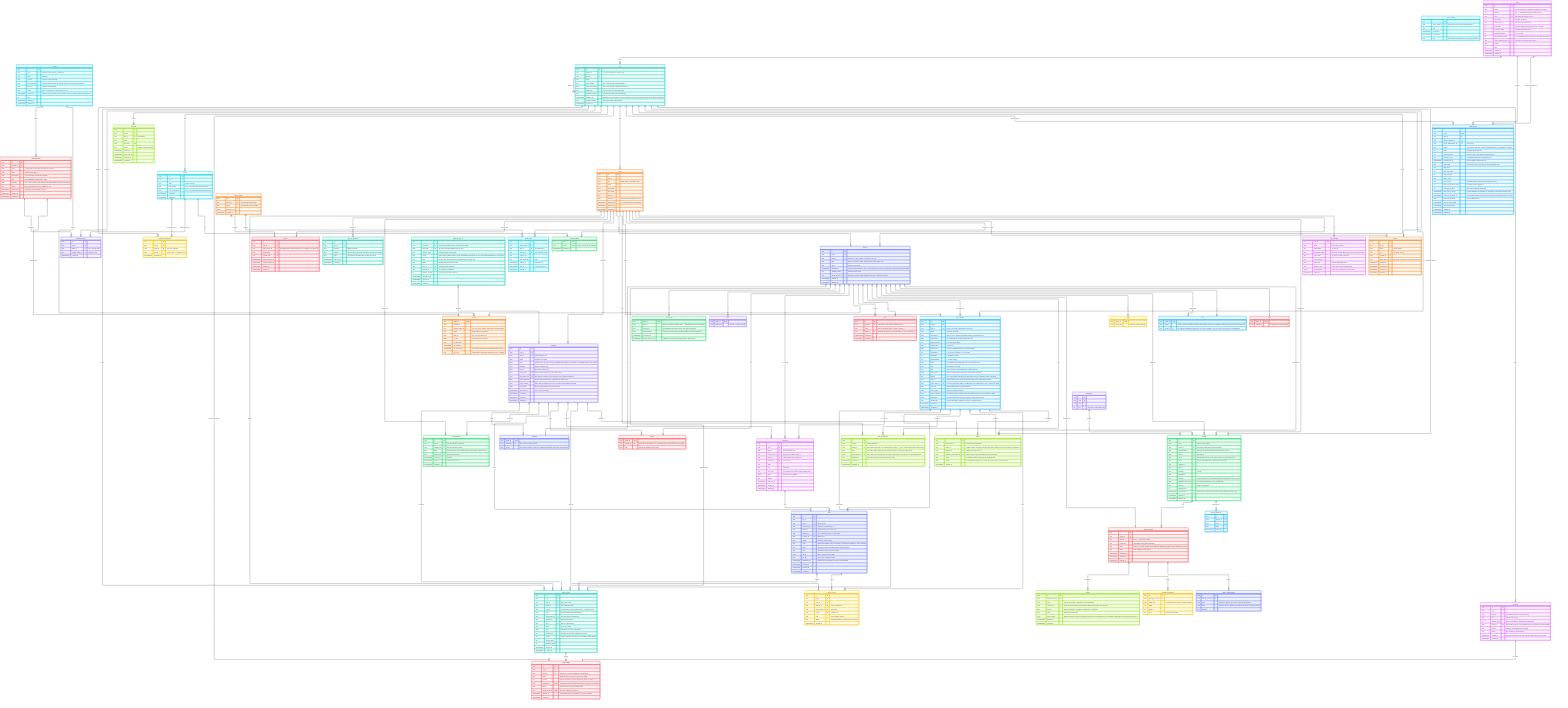
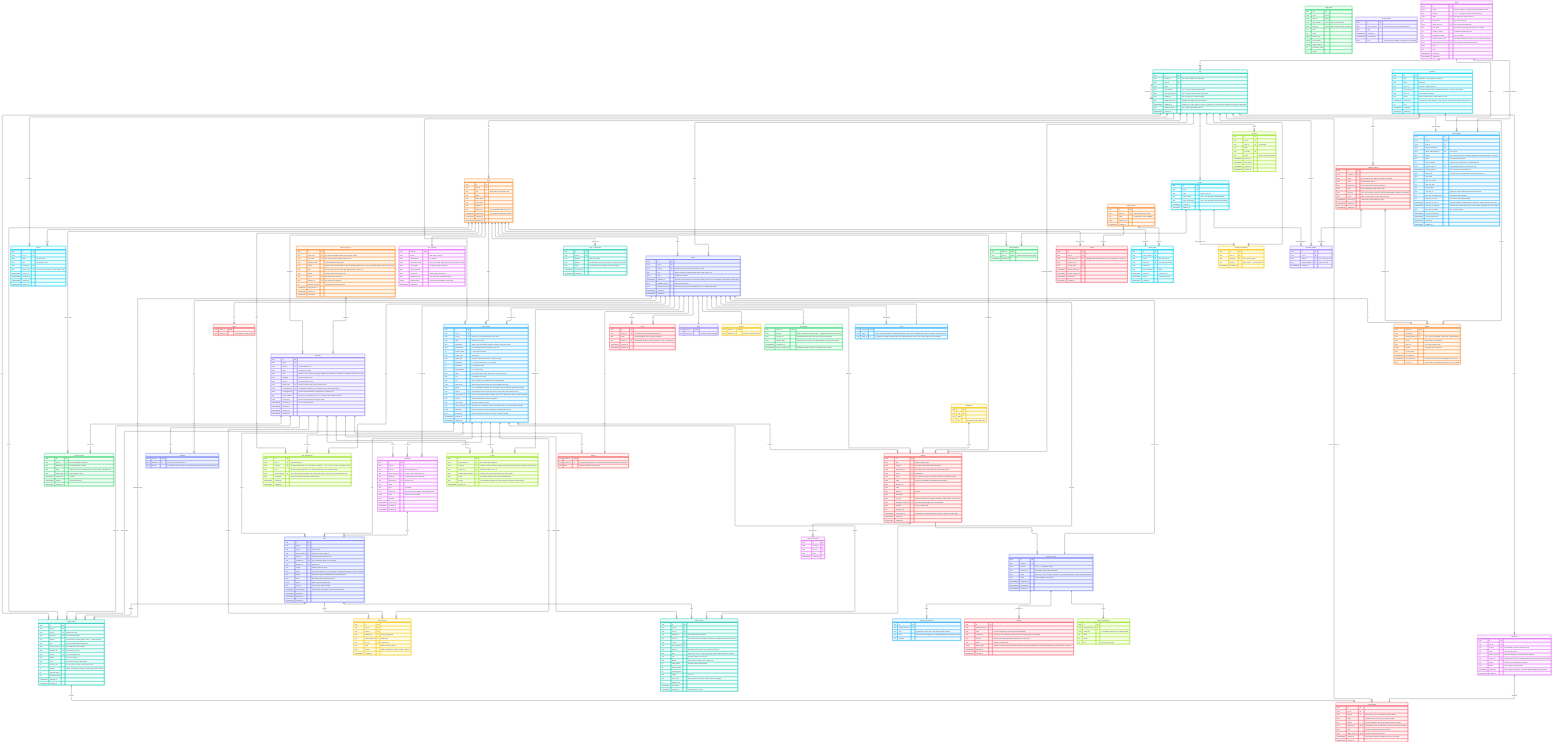
Usage of every power and super power: rrotor reports each use (model calls with the provider's token counts, tool calls, skills, task steps, folders, browsers), counts and times only, never content and never billed; nightly roll-ups per day, org, user, super power and power; listing installs and use

diff --git a/docs/architecture.md b/docs/architecture.md
@@ -382,6 +382,10 @@ erDiagram
     super_powers ||--o{ usage_events : "called from"
     machines ||--o{ usage_events : "called on"
     usage_events ||--o| credit_ledger : "spends"
+    runs ||--o{ power_events : "uses"
+    powers ||--o{ power_events : "used as"
+    super_powers ||--o{ power_events : "used by"
+    machines ||--o{ power_events : "reported by"
     users ||--o{ machines : "registers"
     machine_sign_ins |o--o| machines : "registers"
     orgs ||--o{ invites : "invites"
@@ -732,6 +736,43 @@ erDiagram
         timestamptz created_at
     }
 
+    power_events {
+        uuid id PK
+        uuid org_id FK
+        uuid user_id FK
+        uuid machine_id FK "the machine that reported it"
+        text event_id "rrotor's own id for it; unique per machine, so a batch sent twice counts once"
+        uuid run_id FK
+        uuid super_power_id FK
+        uuid power_id FK "the power used; null for one of rrotor's own tools"
+        text kind "model_call, tool_call, skill, task_step, folder_read, folder_write, browser"
+        text tool "the tool's name, for a tool call"
+        text model "the provider's model id, for a model call"
+        int input_tokens "as the provider reported them"
+        int output_tokens
+        int cached_tokens
+        text status "ok, error"
+        text error_code "the provider's or the tool's code, never its message"
+        int duration_ms
+        timestamptz started_at
+        timestamptz created_at "when the server took it"
+    }
+
+    usage_daily {
+        date day PK
+        uuid org_id PK, FK
+        uuid user_id PK, FK
+        uuid super_power_id PK, FK "the nil id when none"
+        uuid power_id PK, FK "the nil id for rrotor's own tools"
+        int uses
+        int errors
+        bigint duration_ms
+        bigint input_tokens
+        bigint output_tokens
+        int connection_calls
+        int credits
+    }
+
     payments {
         uuid id PK
         uuid org_id FK
@@ -1066,7 +1107,7 @@ The database enforces it: every power has a `user_id`.
 
 Every power is a row in `powers` (who owns it, its kind and name), and one row in the table for its kind, holding that kind's own columns: `models`, `connections`, `folders`, `browsers`, `skills`, `tasks`, `plugins` or `loops` (which engine runs a super power or the main assistant: Claude Code or Codex on the member's subscription, or the Glyphh loop on one of their models). A super power points at `powers`, whatever the kind. What skills, tasks and plugins hold beyond their files is drawn when they are built.
 
-- **A model** is a provider, the provider's model id and the API key (an optional base URL for providers that need one). rrotor calls the provider directly with that key: Glyphh never sits in the call, never sees its rates or prices, and never counts its tokens. What a model costs is between the person and their provider. A customer who wants limits or access rules puts their own AI gateway in front, through the base URL.
+- **A model** is a provider, the provider's model id and the API key (an optional base URL for providers that need one). rrotor calls the provider directly with that key: Glyphh never sits in the call and never sees its rates, prices, prompts or answers; rrotor reports only the tokens the provider says each call used (see Usage). What a model costs is between the person and their provider. A customer who wants limits or access rules puts their own AI gateway in front, through the base URL.
 - **A connection** is a user's own account at Pipedream: the service it connects to (Gmail, Slack, ...) and the account id. Pipedream calls a service an app; Glyphh says service, because an app is something else here. Glyphh stores no sign-in for it: Pipedream holds the account and its tokens, under the Glyphh user's id as Pipedream's external user id. Linking one: the server asks Pipedream for a connect token for that user, and Pipedream's own page does the sign-in. Using one: the loop reaches Pipedream's MCP server (`remote.mcp.pipedream.net/v3`) with the Pipedream project, environment, service (`x-pd-app-slug`) and the user's id as headers, and a short-lived Pipedream access token the server mints for the run (Glyphh's Pipedream client credentials never leave the server). Only Glyphh's connections are used: a super power's loop gets exactly its connections, nothing of the loop's own.
 - **A folder** is a path on one machine (`machine_id`): the same path on two machines is two folders, and a folder grant says read or write.
 - **A browser** is a browser profile on one rrotor: its cookies and signed-in sessions live there and never leave that machine or reach the server. It is granted like a folder, so one super power's signed-in sites are never another's.
@@ -1165,7 +1206,7 @@ What Pipedream charges Glyphh (Connect, Startup plan): $99 a month billed annual
 
 ### Usage
 
-Every usage event is logged in one place: the server's connection relay. A connection call is the only thing billed, a cost Glyphh pays, and every one goes through the server (rrotor → connector → server → Pipedream), so the server sees each call whole: who, through which connection, from which super power, on which machine, how long, and what it cost. Nothing is reported by the runtime about itself, so a modified rrotor cannot under-report.
+**Billed usage** is logged in one place: the server's connection relay. A connection call is the only thing billed, a cost Glyphh pays, and every one goes through the server (rrotor → connector → server → Pipedream), so the server sees each call whole: who, through which connection, from which super power, on which machine, how long, and what it cost. Nothing billed is reported by the runtime about itself, so a modified rrotor cannot under-report.
 
 One call, as the relay handles it:
 
@@ -1176,9 +1217,18 @@ One call, as the relay handles it:
 The check runs before the cost is known, so calls already in flight when the balance reaches 0 finish and are counted: the balance can dip below 0 by at most those calls, and the next call is refused. It never turns into a bill.
 
 - **usage_events** is append only: never updated, never deleted by a request. It holds what was called and how it went, **never what went through it**: no arguments, no results, no message bodies. Those are the member's own data, and they stay between the runtime and Pipedream.
-- **Model calls are not usage.** They go straight to the provider on the member's key, and Glyphh never sees them. Jev is one of them: a TypeSafe model the member adds with their own key, never on Glyphh's key, never through the server, never charged.
+- **Model calls are never billed.** They go straight to the provider on the member's key, and Glyphh never sees them; rrotor reports their token counts (below). Jev is one of them: a TypeSafe model the member adds with their own key, never on Glyphh's key, never through the server, never charged.
 - **Operational logs are separate:** request logs and traces go to OpenTelemetry, tagged by org; they are not billing and do not decide a charge.
 - **Size:** the table is partitioned by month on `created_at`, indexed by org and time, and by org, user and time, so every page reads one org's range.
+
+#### What rrotor reports: every power and super power, counted, never billed
+
+Decided 2026-10-11. Beside the metered connection calls, rrotor reports each use of a power inside a run, so members, org admins and publishers can see what is used, how often and how well. Counts and times only, **never content**: no prompts, arguments, results or keys. None of it is billed, and it never decides a charge.
+
+- **power_events:** one row per use, sent by rrotor over its machine connection in batches: the model call (with the input, output and cached tokens exactly as the provider reported them, and the provider's model id), a tool call of a plugin or of rrotor's own, a skill loaded, a task step, a folder read or written, a browser session. Each carries its run, super power, power, machine, user and org, its status and how long it took. Each has rrotor's own event id (unique per machine), so a batch sent twice is counted once. Append only, partitioned by month like `usage_events`.
+- **usage_daily:** the nightly roll-up of both tables, per day, org, user, super power and power: uses, errors, time, tokens, and connection calls and credits. Every usage page reads it, and a day still running is read from the raw rows.
+- **Listings:** a publisher sees their listing's installs (powers installed from its versions), installs used in the last 30 days, and runs; the marketplace ranks by them.
+- **Trust:** a modified rrotor can only misreport its own member's insight, never a bill: what is billed is counted by the server.
 
 #### Who sees what
 
